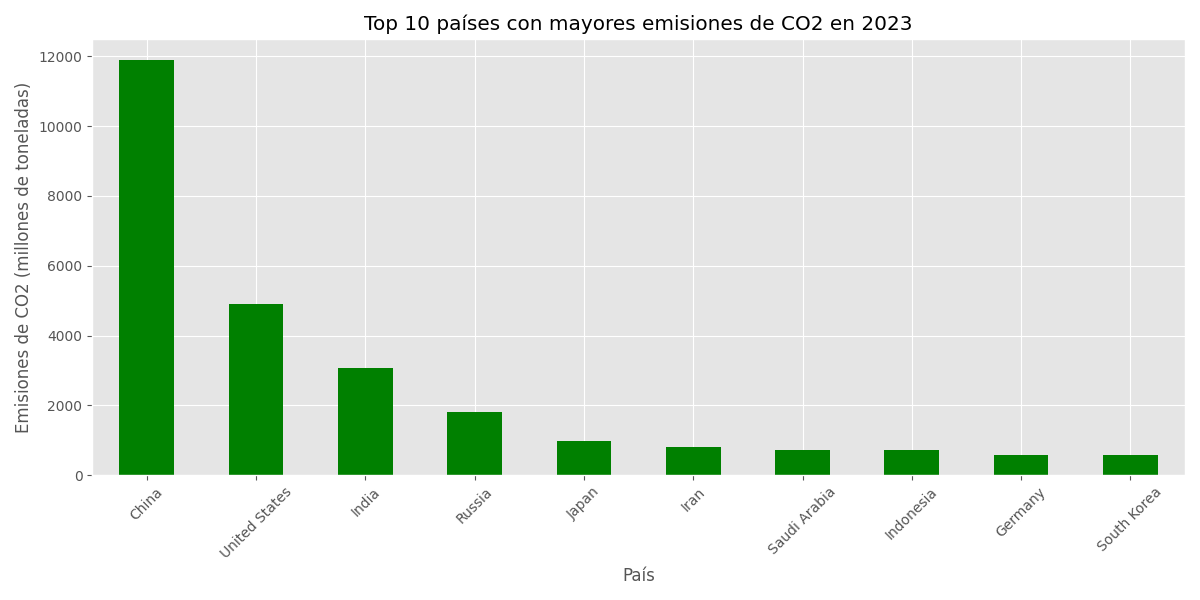
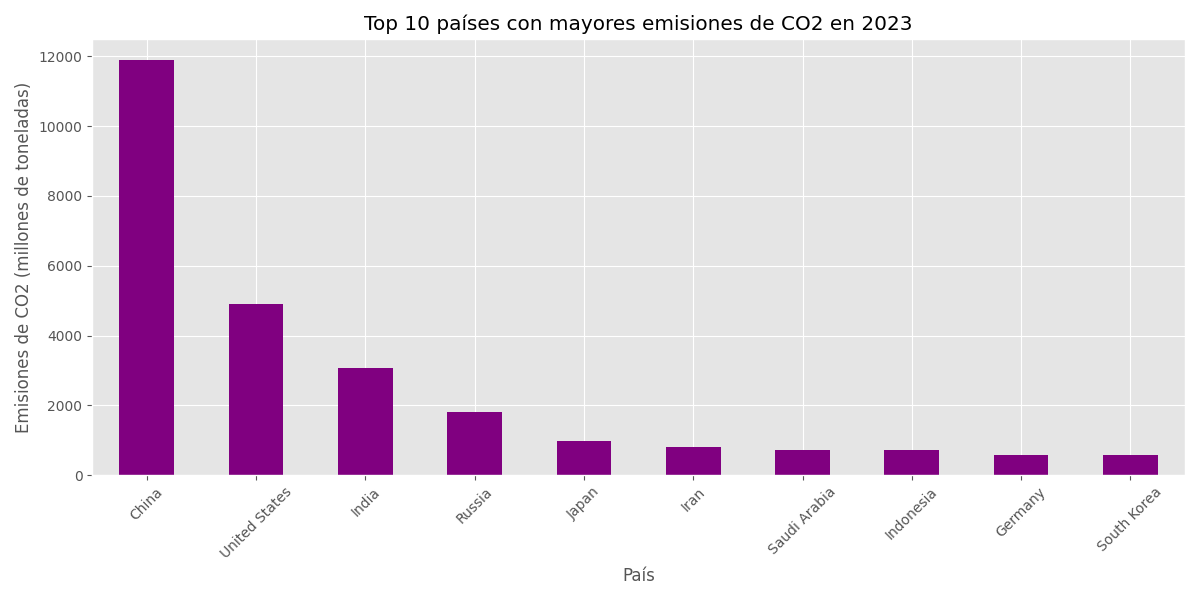
cambios visuales

diff --git a/analisis.py b/analisis.py
@@ -59,7 +59,7 @@ def analisis_datos(df, pais_ejemplo):
 def generar_graficos(resultados):
     # Gráfico 1: Emisiones totales acumuladas (top 10)
     plt.figure(figsize=(12, 8))
-    resultados['top_10_emisiones_total'].sort_values().plot(kind='barh', color='darkblue')
+    resultados['top_10_emisiones_total'].sort_values().plot(kind='barh', color='orange')
     plt.title('Top 10 países con mayores emisiones acumuladas de CO2 (histórico)')
     plt.xlabel('Emisiones totales de CO2 (millones de toneladas)')
     plt.ylabel('País')
@@ -69,7 +69,7 @@ def generar_graficos(resultados):
     
     # Gráfico 2: Emisiones en el año más reciente (top 10)
     plt.figure(figsize=(12, 6))
-    resultados['top_10_emisiones_recientes'].plot(kind='bar', color='green')
+    resultados['top_10_emisiones_recientes'].plot(kind='bar', color='purple')
     plt.title(f'Top 10 países con mayores emisiones de CO2 en {resultados["año_reciente"]}')
     plt.ylabel('Emisiones de CO2 (millones de toneladas)')
     plt.xlabel('País')
@@ -119,15 +119,15 @@ def main():
         elif seleccion in paises_disponibles:
             pais_ejemplo = seleccion
             break
-
+        #Mensaje para el usuario, en caso de error.    
         print("Selección no válida. Intenta con el número o nombre exacto del país.")
-
+    #Mensaje para el usuario.
     print("Analizando datos...")
     resultados = analisis_datos(df, pais_ejemplo)
-
+    #Mensaje para el usuario.
     print("Generando gráficos...")
     generar_graficos(resultados)
-
+    
     print("\nResultados del análisis:")
     print("\n1. Top 10 países con mayores emisiones acumuladas:")
     print(resultados['top_10_emisiones_total'])
